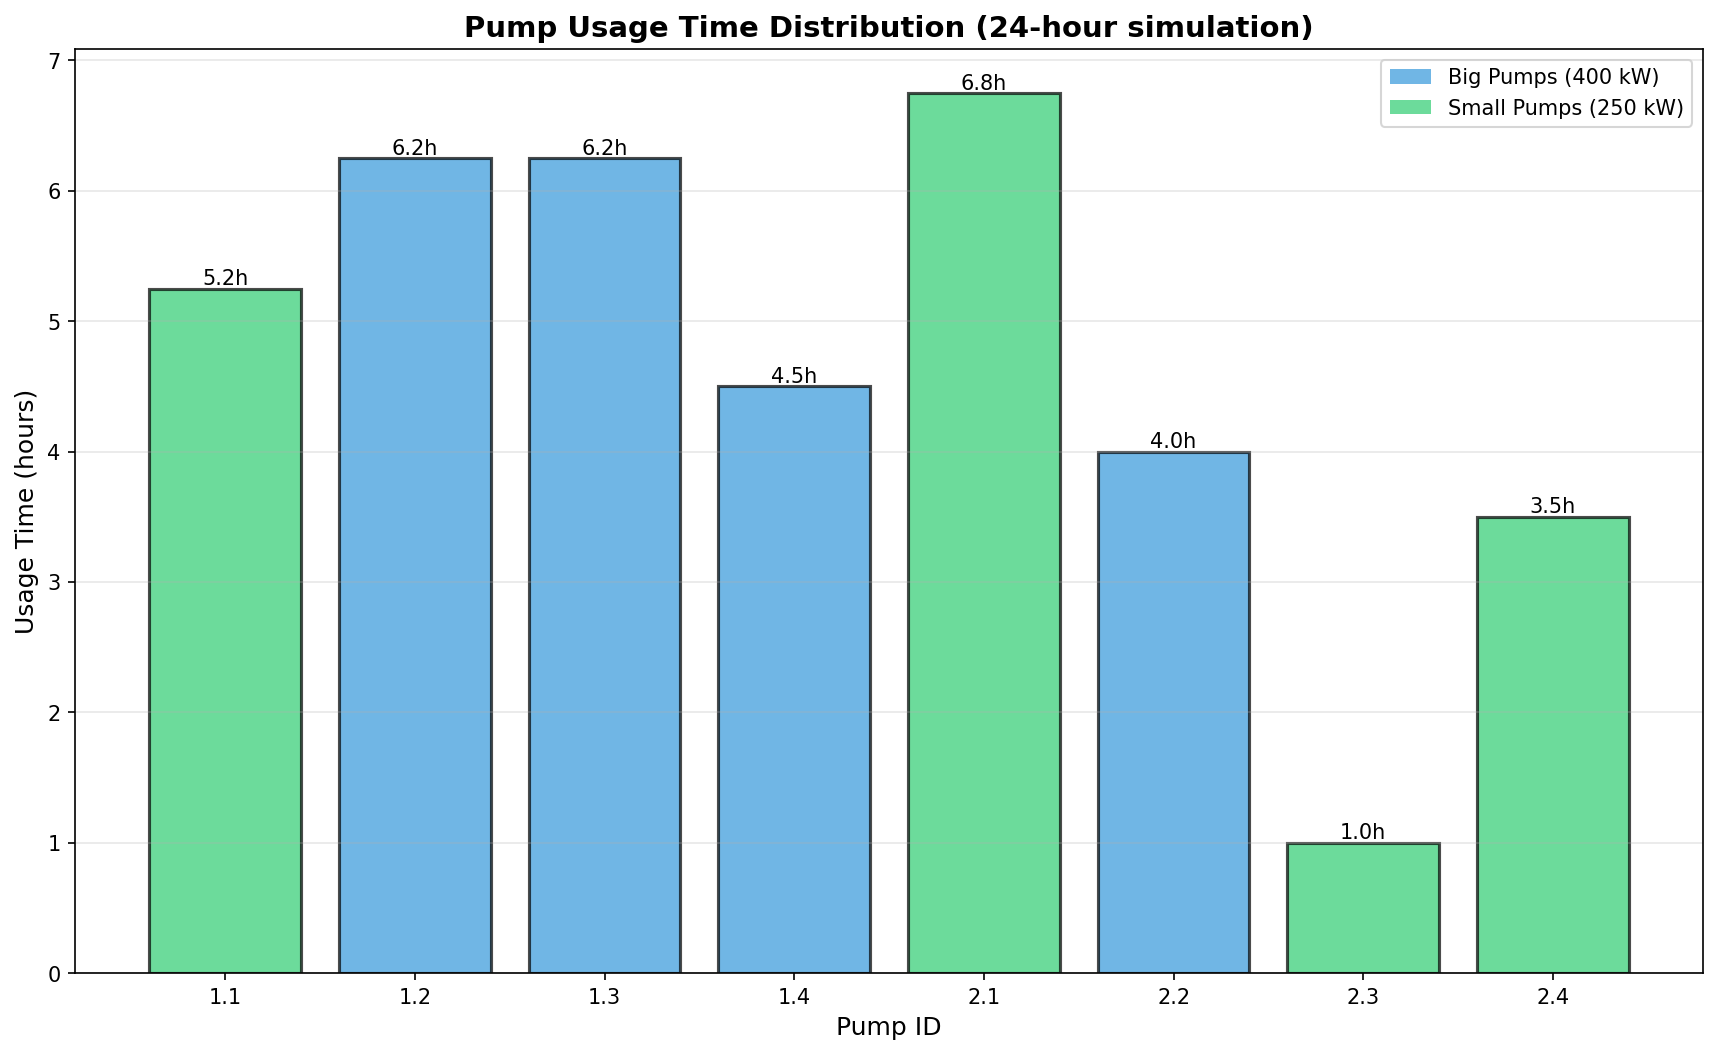
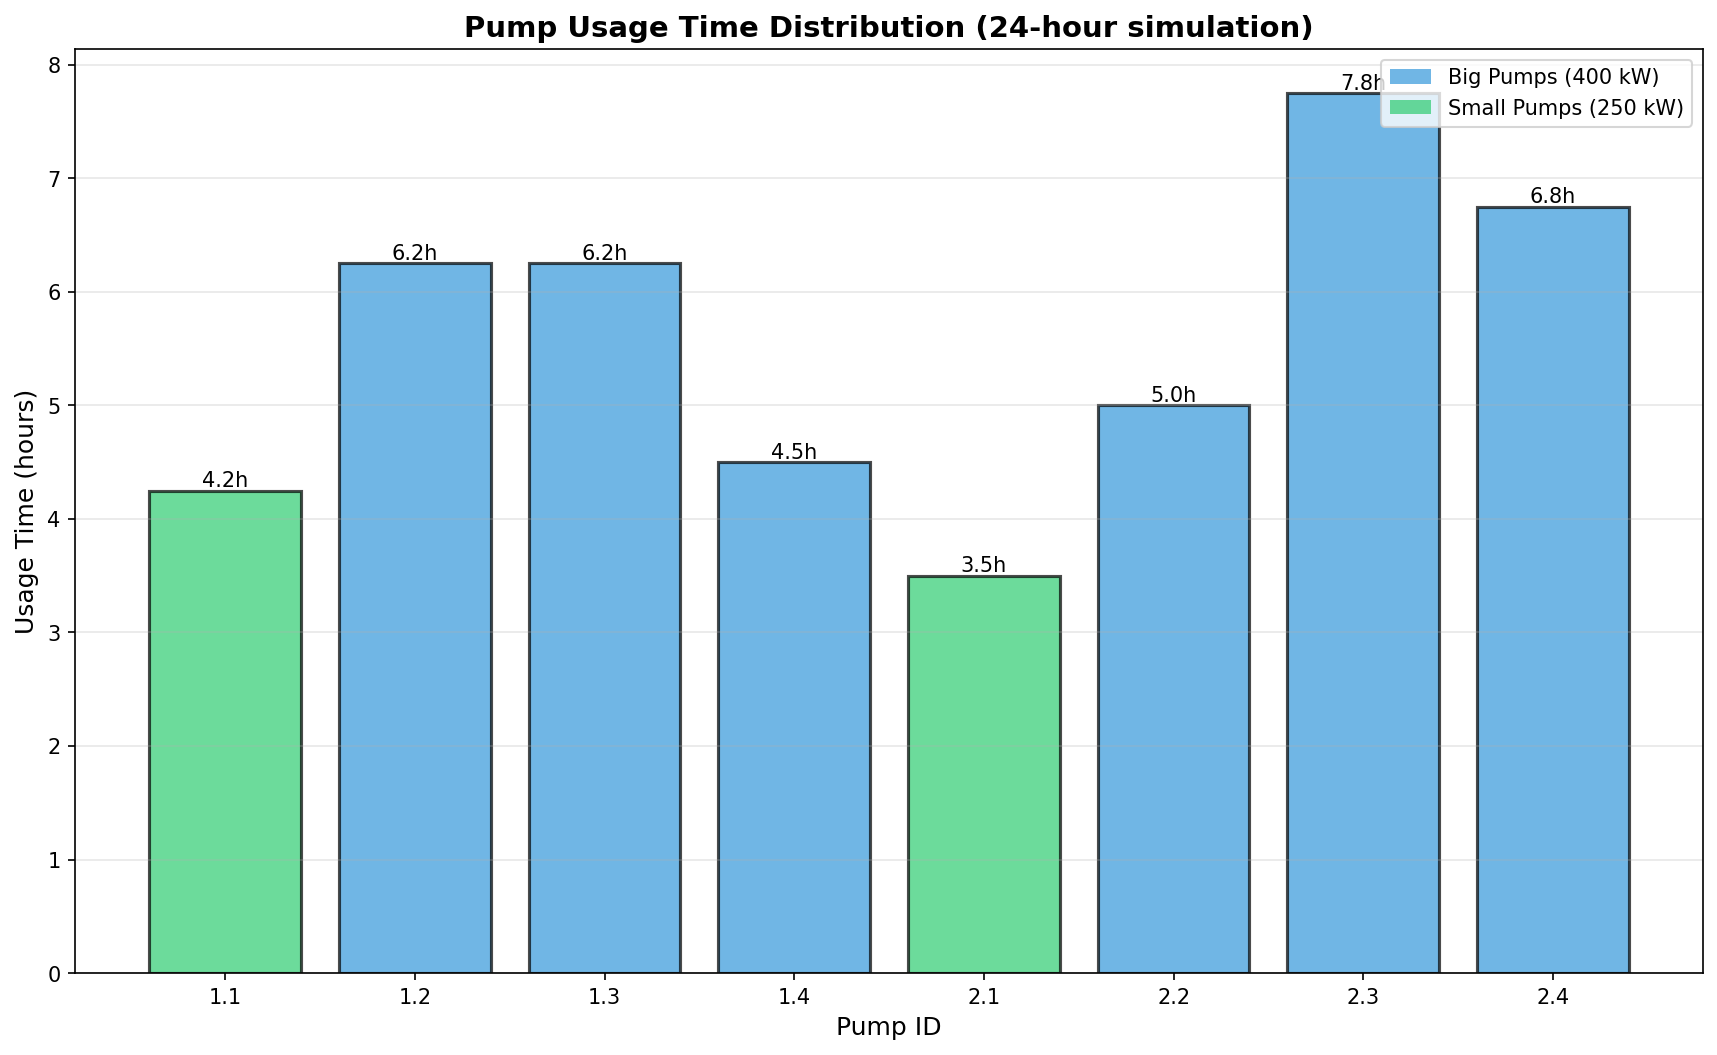
simulation fix

Changed region(s): [[0.4013, 0.0607, 0.9569, 0.9403], [0.1852, 0.1213, 0.4013, 0.273], [0.0617, 0.2427, 0.1852, 0.4853]]

diff --git a/backend/main.py b/backend/main.py
@@ -125,6 +125,28 @@ def main():
     return total_cost
 
 
+def safe_float_convert(value):
+    """
+    Safely convert value to float, handling special characters like minus signs.
+    
+    Args:
+        value: Value to convert (can be string, float, or other numeric type)
+        
+    Returns:
+        float value, or 0.0 if conversion fails
+    """
+    if pd.isna(value):
+        return 0.0
+    if isinstance(value, (int, float)):
+        return float(value)
+    # Convert to string and replace special minus sign (U+2212) with regular minus
+    str_value = str(value).replace('−', '-').replace(',', '.')
+    try:
+        return float(str_value)
+    except (ValueError, TypeError):
+        return 0.0
+
+
 def plot_simulation_results(simulator: Simulator, csv_path: str = None):
     """
     Generate comprehensive plots of simulation results with comparison to CSV data.
@@ -155,7 +177,7 @@ def plot_simulation_results(simulator: Simulator, csv_path: str = None):
     ax1 = fig.add_subplot(gs[0, 0])
     ax1.plot(time_hours, data['water_levels'], 'b-', linewidth=2, label='Simulated Water Level', alpha=0.8)
     if csv_data is not None:
-        csv_levels = csv_data['Water level in tunnel L2'].tolist()[:96]
+        csv_levels = [safe_float_convert(x) for x in csv_data['Water level in tunnel L2'].tolist()[:96]]
         ax1.plot(time_hours, csv_levels, 'b--', linewidth=1.5, label='CSV Water Level', alpha=0.6)
     ax1.axhline(y=14.1, color='r', linestyle='--', linewidth=2, label='Max Level (14.1 m)')
     ax1.axhline(y=0.5, color='orange', linestyle='--', linewidth=1, label='Min Target (0.5 m)')
@@ -169,7 +191,7 @@ def plot_simulation_results(simulator: Simulator, csv_path: str = None):
     ax2 = fig.add_subplot(gs[0, 1])
     ax2.plot(time_hours, data['volumes'], 'g-', linewidth=2, label='Simulated Volume', alpha=0.8)
     if csv_data is not None:
-        csv_volumes = csv_data['Water volume in tunnel V'].tolist()[:96]
+        csv_volumes = [safe_float_convert(x) for x in csv_data['Water volume in tunnel V'].tolist()[:96]]
         ax2.plot(time_hours, csv_volumes, 'g--', linewidth=1.5, label='CSV Volume', alpha=0.6)
     ax2.set_xlabel('Time (hours)')
     ax2.set_ylabel('Volume (m³)')
@@ -185,8 +207,8 @@ def plot_simulation_results(simulator: Simulator, csv_path: str = None):
     ax3.plot(time_hours, data['outflows'], 'r-', linewidth=2, label='Simulated Outflow', alpha=0.7)
     ax3.plot(time_hours, data['target_flowrates'], 'g--', linewidth=1.5, label='Target Flowrate', alpha=0.8)
     if csv_data is not None:
-        csv_inflows = csv_data['Inflow to tunnel F1'].tolist()[:96]
-        csv_outflows = csv_data['Sum of pumped flow to WWTP F2'].tolist()[:96]
+        csv_inflows = [safe_float_convert(x) for x in csv_data['Inflow to tunnel F1'].tolist()[:96]]
+        csv_outflows = [safe_float_convert(x) for x in csv_data['Sum of pumped flow to WWTP F2'].tolist()[:96]]
         csv_outflows_15min = [x / 4.0 for x in csv_outflows]  # Convert m³/h to m³/15min
         ax3.plot(time_hours, csv_inflows, 'b--', linewidth=1.5, label='CSV Inflow', alpha=0.5)
         ax3.plot(time_hours, csv_outflows_15min, 'r--', linewidth=1.5, label='CSV Outflow', alpha=0.5)
@@ -200,7 +222,7 @@ def plot_simulation_results(simulator: Simulator, csv_path: str = None):
     ax4 = fig.add_subplot(gs[1, 1])
     ax4.plot(time_hours, data['energy_prices'], 'purple', linewidth=2, marker='o', markersize=3, label='Simulated Energy Price', alpha=0.8)
     if csv_data is not None:
-        csv_energy_prices = csv_data['Electricity price 2: normal'].tolist()[:96]
+        csv_energy_prices = [safe_float_convert(x) for x in csv_data['Electricity price 2: normal'].tolist()[:96]]
         csv_energy_prices_eur = [x / 100.0 for x in csv_energy_prices]  # Convert from snt to EUR
         ax4.plot(time_hours, csv_energy_prices_eur, 'purple', linewidth=1.5, linestyle='--', label='CSV Energy Price', alpha=0.6)
     ax4.set_xlabel('Time (hours)')
